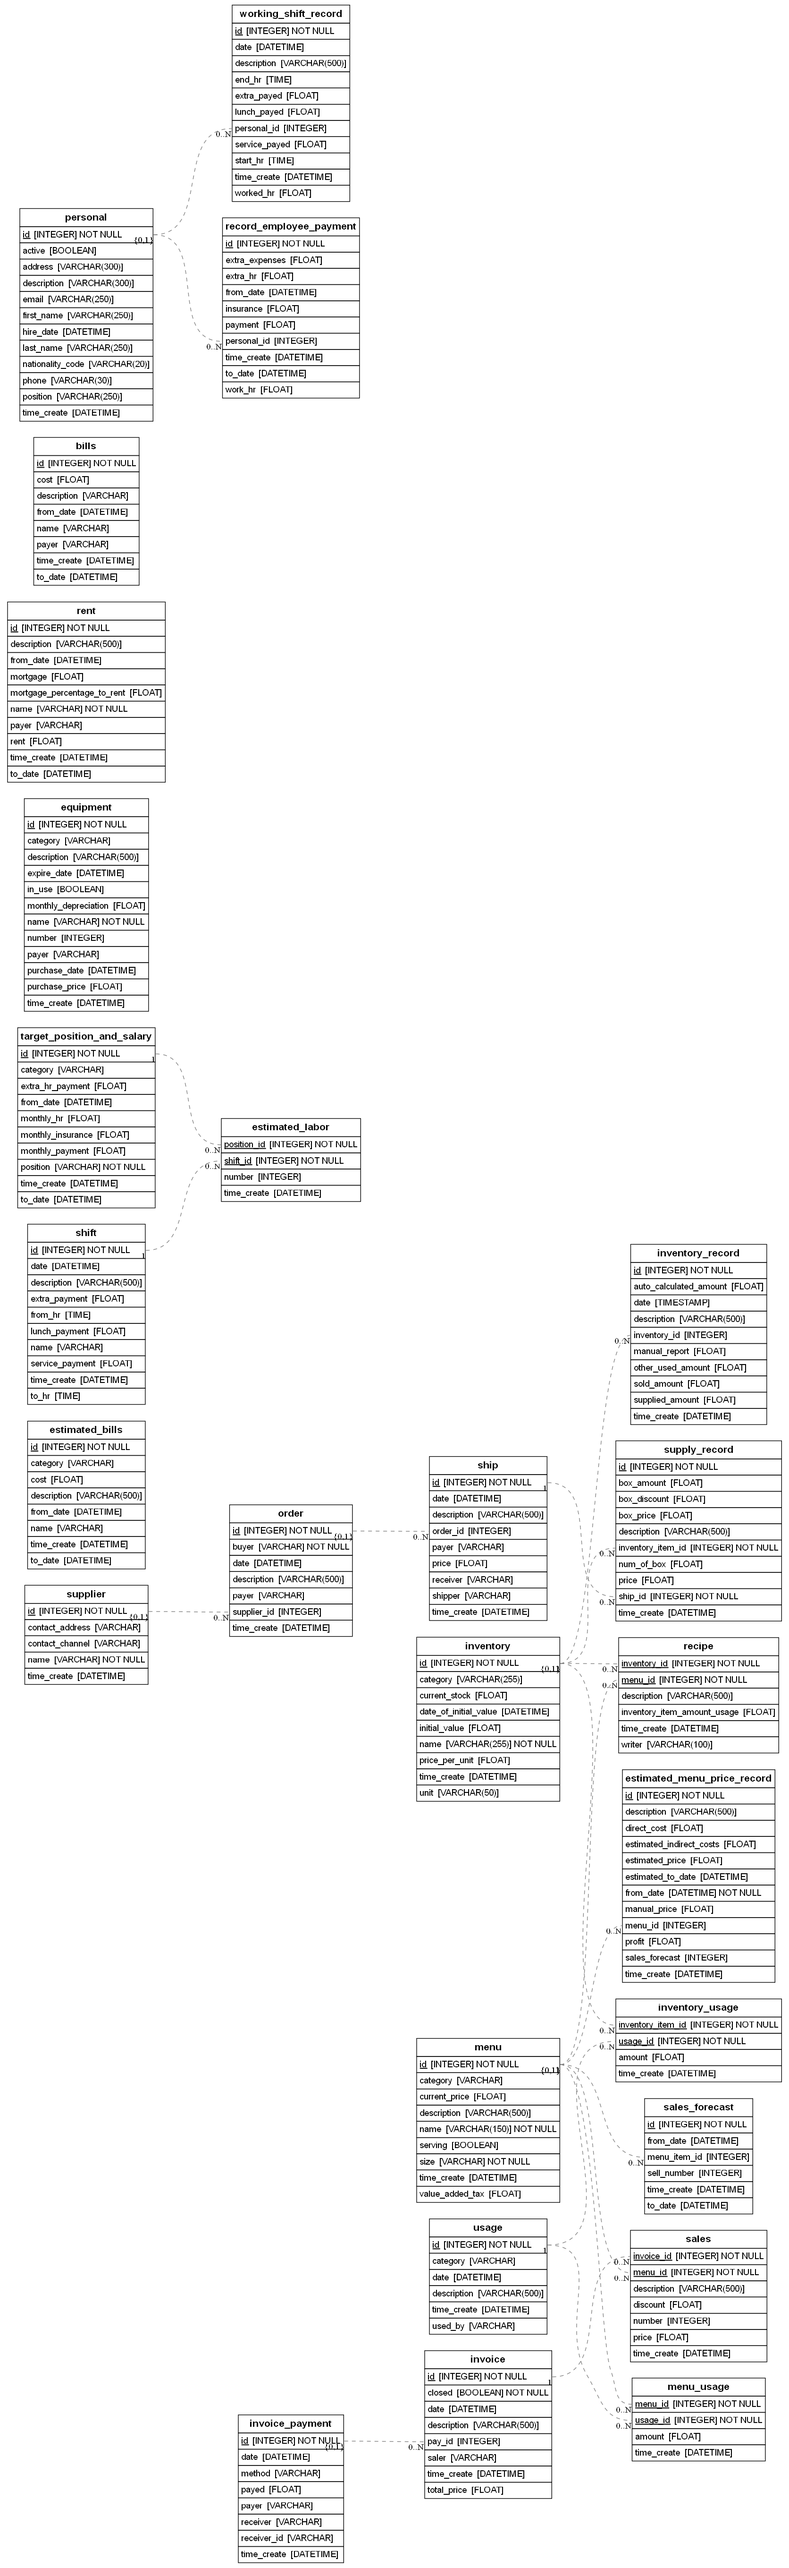
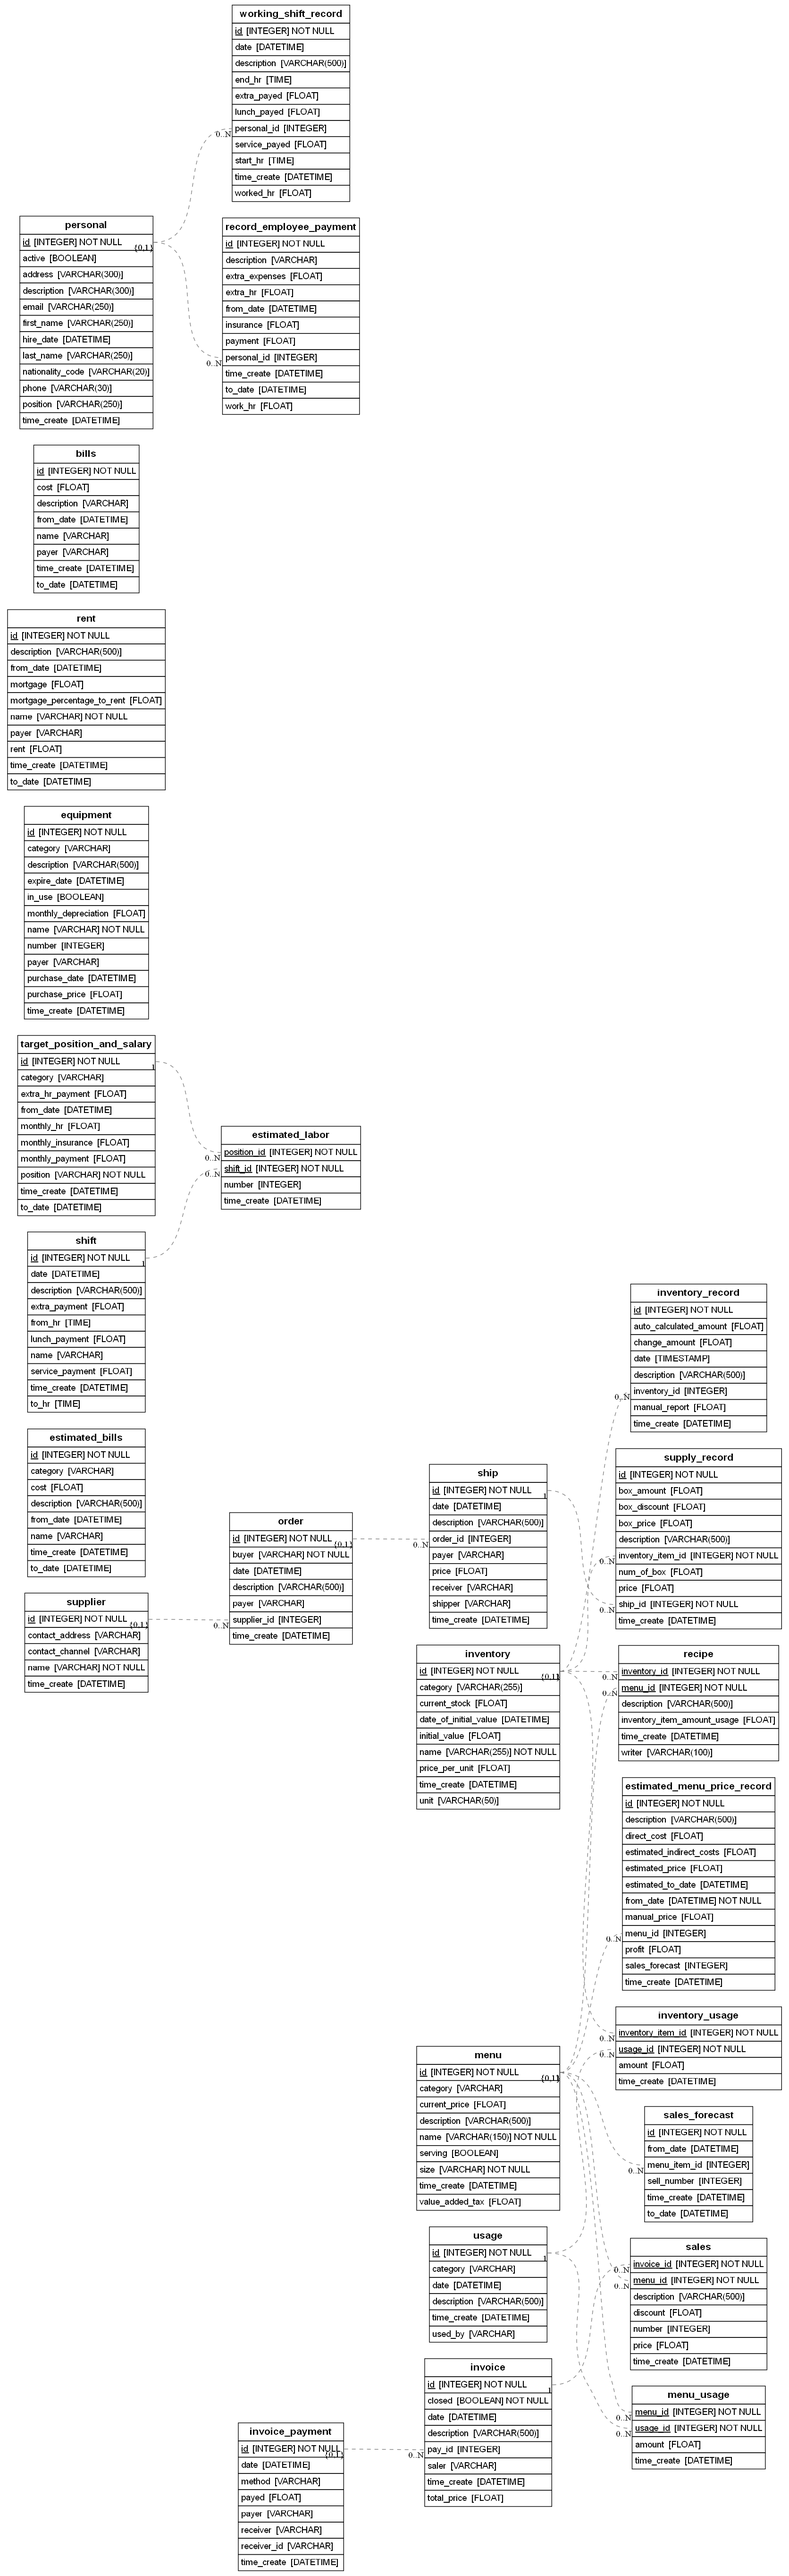
changed  model inventory record name to inventory stock record removed sol supplied other usage added change amount adjusted dbhandler and tests

diff --git a/dbhandler.py b/dbhandler.py
@@ -326,30 +326,17 @@ class DbHandler:
                 return False
 
 
-    #--inventory record--
-    def add_inventoryrecord(self,
+    #--InventoryStockRecord--
+    def add_inventorystockrecord(self,
                  inventory_id:int,
-                 sold_amount:Optional[float]=None,
-                 other_used_amount:Optional[float]=None,
-                 supplied_amount:Optional[float]=None,
+                 change_amount:float,
                  auto_calculated_amount:Optional[float]=None,
                  manual_report:Optional[float]=None,
                  date:datetime=None,
                  description:Optional[str]=None,
-                 ) -> Optional[InventoryRecord]:
+                 ) -> Optional[InventoryStockRecord]:
         """ adding new inventory record item """
-        if sold_amount is not None and sold_amount < 0:
-            logging.error("sold_amount: value cant be negative")
-            return None
-        if other_used_amount is not None and other_used_amount < 0:
-            logging.error("other_used_amount: value cant be negative")
-            return None
-        if supplied_amount is not None and supplied_amount < 0:
-            logging.error("supplied_amount: value cant be negative")
-            return None
-        if auto_calculated_amount is not None and auto_calculated_amount < 0:
-            logging.error("auto_calculated_amount: value cant be negative")
-            return None
+
         if manual_report is not None and manual_report < 0:
             logging.error("manual_report: value cant be negative")
             return None
@@ -363,11 +350,9 @@ class DbHandler:
 
                 date = date if date is not None else datetime.now()
 
-                new_record = InventoryRecord(
+                new_record = InventoryStockRecord(
                     inventory_id=inventory_id,
-                    sold_amount=sold_amount,
-                    other_used_amount=other_used_amount,
-                    supplied_amount=supplied_amount,
+                    change_amount=change_amount,
                     auto_calculated_amount=auto_calculated_amount,
                     manual_report=manual_report,
                     date=date,
@@ -383,14 +368,14 @@ class DbHandler:
                 logging.error(f"Failed to add inventory record item to the database: {e}")
                 return None
 
-    def get_inventoryrecord(
+    def get_inventorystockrecord(
             self,
             id:Optional[int]=None,
             inventory_id: Optional[int]=None,
             from_date: Optional[datetime] = None,
             to_date: Optional[datetime] = None,
             row_num: Optional[int]=None,
-    ) ->List[InventoryRecord]:
+    ) ->List[InventoryStockRecord]:
         """Get inventory record(s) for inventory items
 
         Args:
@@ -406,38 +391,38 @@ class DbHandler:
 
         with (self.Session() as session):
             try:
-                query = session.query(InventoryRecord).order_by(InventoryRecord.date.desc())
+                query = session.query(InventoryStockRecord).order_by(InventoryStockRecord.date.desc())
 
                 if id:
                     query = query.filter_by(id=id)
                 if inventory_id:
                     query = query.filter_by(inventory_id=inventory_id)
                 if from_date:
-                    query = query.filter(InventoryRecord.date >= from_date)
+                    query = query.filter(InventoryStockRecord.date >= from_date)
                 if to_date:
-                    query = query.filter(InventoryRecord.date <= to_date)
+                    query = query.filter(InventoryStockRecord.date <= to_date)
                 if row_num:
                     query = query.limit(row_num)
 
                 result = query.all()
                 logging.info(f"Found {len(result)} inventory records")
-                return cast(List[InventoryRecord], result)
+                return cast(List[InventoryStockRecord], result)
 
             except Exception as e:
                 session.rollback()
                 logging.error(f"Error fetching records for inventory: {str(e)}")
                 return []
 
-    def edit_inventoryrecord(self, inventory_record:InventoryRecord) -> Optional[InventoryRecord]:
+    def edit_inventorystockrecord(self, inventory_record:InventoryStockRecord) -> Optional[InventoryStockRecord]:
         """
         Updates an existing inventory record in the database.
 
         Args:
-            inventory_record: The InventoryRecord object with updated values.
+            inventory_record: The inventorystockrecord object with updated values.
                              Must have a valid ID for existing records.
 
         Returns:
-            The updated InventoryRecord if successful, None on error.
+            The updated inventorystockrecord if successful, None on error.
         """
 
 
@@ -446,7 +431,7 @@ class DbHandler:
             return None
         with self.Session() as session:
             try:
-                existing = session.get(InventoryRecord, inventory_record.id)
+                existing = session.get(InventoryStockRecord, inventory_record.id)
                 if not existing:
                     logging.error(f"No inventory record found with ID: {inventory_record.id}")
                     return None
@@ -460,14 +445,14 @@ class DbHandler:
                 logging.error(f"Failed to update inventory record with id: {inventory_record.id}: {e}")
                 return None
 
-    def delete_inventoryrecord(self, inventory_record: InventoryRecord) -> bool:
+    def delete_inventorystockrecord(self, inventory_record: InventoryStockRecord) -> bool:
         """
         Deletes an inventory record by ID.
         Returns True if deleted, False otherwise.
         """
         with self.Session() as session:
             try:
-                record = session.get(InventoryRecord, inventory_record.id)
+                record = session.get(InventoryStockRecord, inventory_record.id)
                 if not record:
                     logging.warning(f"No inventory record found with id: {inventory_record.id}")
                     return False

diff --git a/tests/test_inventory_records.py b/tests/test_inventory_records.py
@@ -3,7 +3,7 @@ from datetime import datetime, timedelta
 import random
 
 from tests.utils import crud_cycle_test
-from cafe_managment_models import InventoryRecord
+from cafe_managment_models import InventoryStockRecord
 
 def test_inventory_records_curd_cycle(in_memory_db):
     """Test full CRUD cycle for Menu using  exact utility function"""
@@ -16,12 +16,10 @@ def test_inventory_records_curd_cycle(in_memory_db):
     assert inventory_item is not None
     crud_cycle_test(
         db_handler=in_memory_db,
-        model_class=InventoryRecord,
+        model_class=InventoryStockRecord,
         create_kwargs={
             "inventory_id": inventory_item.id,
-            "sold_amount": 101.1,
-            "other_used_amount": 10.9,
-            "supplied_amount": 250,
+            "change_amount": -101.1,
             "auto_calculated_amount":130,
             "manual_report":100,
             "date":datetime.now(),
@@ -39,7 +37,7 @@ def test_inventory_records_curd_cycle(in_memory_db):
 
     )
 
-def test_inventoryrecord_crud_cycle(in_memory_db):
+def test_inventorystockrecord_crud_cycle(in_memory_db):
     """Test happy path using crud_cycle_test"""
     inventory_item = in_memory_db.add_inventory(
         name="Test Item",
@@ -50,14 +48,14 @@ def test_inventoryrecord_crud_cycle(in_memory_db):
     assert inventory_item is not None
     crud_cycle_test(
         db_handler=in_memory_db,
-        model_class=InventoryRecord,
+        model_class=InventoryStockRecord,
         create_kwargs={
             "inventory_id": 1,
-            "sold_amount": 10.5,
+            "change_amount": -10.5,
             "description": "Initial record"
         },
         update_kwargs={
-            "sold_amount": 15.2,
+            "change_amount": -15.2,
             "description": "Updated record"
         },
         lookup_fields=['inventory_id'],
@@ -80,9 +78,9 @@ def test_inventory_records_date_range_filtering(in_memory_db):
     base_date = datetime.now().replace(hour=0, minute=0, second=0, microsecond=0) - timedelta(days=15)
     for i in range(10):
         record_date = base_date + timedelta(days=i*3)
-        in_memory_db.add_inventoryrecord(
+        in_memory_db.add_inventorystockrecord(
             inventory_id=inventory_item.id,
-            sold_amount=10 + i*5,
+            change_amount=-10 + i*5,
             date=record_date,
             description=f"Test record {i+1}"
         )
@@ -92,7 +90,7 @@ def test_inventory_records_date_range_filtering(in_memory_db):
     to_date = base_date + timedelta(days=18)  # Changed from 21 to 18 to get exactly 4 records
 
     # Get records in date range
-    records = in_memory_db.get_inventoryrecord(
+    records = in_memory_db.get_inventorystockrecord(
         inventory_id=inventory_item.id,
         from_date=from_date,
         to_date=to_date
@@ -131,9 +129,9 @@ def test_inventory_records_get_all_with_date_range(in_memory_db):
     test_records = []
     for i in range(10):  # Days 0, 3, 6, 9, 12, 15, 18, 21, 24, 27
         record_date = base_date + timedelta(days=i * 3)
-        record = in_memory_db.add_inventoryrecord(
+        record = in_memory_db.add_inventorystockrecord(
             inventory_id=inventory_item.id,
-            sold_amount=10 + i * 5,
+            change_amount=10 + i * 5,
             date=record_date,
             description=f"Record day {i * 3}"
         )
@@ -144,7 +142,7 @@ def test_inventory_records_get_all_with_date_range(in_memory_db):
     to_date = base_date + timedelta(days=18)
 
     # Test last=False with date range
-    records = in_memory_db.get_inventoryrecord(
+    records = in_memory_db.get_inventorystockrecord(
         inventory_id=inventory_item.id,
         from_date=from_date,
         to_date=to_date
@@ -190,16 +188,16 @@ def test_inventory_records_get_all_records(in_memory_db):
     test_records = []
     for i in range(10):  # Days 0, 3, 6, 9, 12, 15, 18, 21, 24, 27
         record_date = base_date + timedelta(days=i * 3)
-        record = in_memory_db.add_inventoryrecord(
+        record = in_memory_db.add_inventorystockrecord(
             inventory_id=inventory_item.id,
-            sold_amount=10 + i * 5,
+            change_amount=10 + i * 5,
             date=record_date,
             description=f"Record day {i * 3}"
         )
         test_records.append(record)
 
     # Test last=False without date range
-    records = in_memory_db.get_inventoryrecord(
+    records = in_memory_db.get_inventorystockrecord(
         inventory_id=inventory_item.id,
     )
 

diff --git a/cafe_managment_models.py b/cafe_managment_models.py
@@ -25,20 +25,18 @@ class Inventory(Base):
     recipes = relationship("Recipe", back_populates="inventory_item")
     supply_record = relationship("SupplyRecord", back_populates="inventory_item")
     usage_records = relationship("InventoryUsage", back_populates="inventory_item")
-    records = relationship("InventoryRecord", back_populates="inventory_item")
+    records = relationship("InventoryStockRecord", back_populates="inventory_item")
 
 #done
-class InventoryRecord(Base):
+class InventoryStockRecord(Base):
     __tablename__ = "inventory_record"
 
     id = Column(Integer, primary_key=True)
     inventory_id = Column(ForeignKey('inventory.id'))
-    sold_amount = Column(Float)
-    other_used_amount = Column(Float)
-    supplied_amount = Column(Float)
+    date = Column(TIMESTAMP)
+    change_amount = Column(Float)
     auto_calculated_amount = Column(Float)
     manual_report = Column(Float)
-    date = Column(TIMESTAMP)
     description = Column(String(500))
     time_create = Column(DateTime, default=lambda: datetime.now(timezone.utc))
 
@@ -469,4 +467,4 @@ class RecordEmployeePayment(Base):
 
 
 
-# render_er(Base, 'erd_from_sqlalchemy.png')
+render_er(Base, 'erd_from_sqlalchemy.png')
